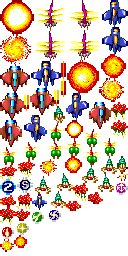
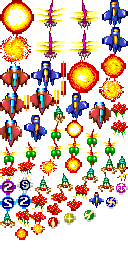
add eat bomb

Changed region(s): [[0.0, 0.6875, 0.9375, 1.0]]

diff --git a/tests3/main.cpp b/tests3/main.cpp
@@ -43,6 +43,10 @@ int GameLooper::Update() {
 			}
 		}
 
+		bombs.Foreach([&](auto& o)->bool {
+			return o->Update.Resume();
+		});
+
 		monsters_strawberry.Foreach([&](auto& o)->bool {
 			return o->Update.Resume();
 		});
@@ -69,10 +73,6 @@ int GameLooper::Update() {
 	xx::Quad texBrush;
 	texBrush.SetScale(gDisplayScale);
 
-	explosions_monster.Foreach([&](auto& o) {
-		o->Draw(texBrush);
-	});
-
 	monsters_hermit_crab.Foreach([&](auto& o) {
 		o->Draw(texBrush);
 	});
@@ -89,6 +89,13 @@ int GameLooper::Update() {
 		o->Draw(texBrush);
 	});
 
+	bombs.Foreach([&](auto& o) {
+		o->Draw(texBrush);
+	});
+
+	explosions_monster.Foreach([&](auto& o) {
+		o->Draw(texBrush);
+	});
 
 	for (auto& o : player_planes) {
 		if (o) {
@@ -104,7 +111,7 @@ int GameLooper::Update() {
 
 xx::Task<> GameLooper::MasterLogic() {
 	// sleep a while for OBS record
-	//co_await gEngine.TaskSleep(5);
+	co_await gEngine.TaskSleep(3);
 
 	// create player's plane
 	//for (size_t i = 0; i < 10000; i++)
@@ -113,30 +120,40 @@ xx::Task<> GameLooper::MasterLogic() {
 		//player_planes.emplace_back(xx::Make<Plane>())->Init(1);
 		co_yield 0;
 	}
+
+	while (nowSecs < 10) {
+		co_await gEngine.TaskSleep(1.f / 5);
+
+		monsters_hermit_crab.Emplace().Emplace()->Init();
+	}
 	
 	xx::MovePathCache dragonflyPath1, dragonflyPath2;
 	{
 		xx::MovePath mp;
 		xx::CurvePoints cps;
+		cps.points.emplace_back().pos = { g9Pos.x7 + 150, g9Pos.y7 + gMonsterDragonfly.diameter };
 		cps.points.emplace_back().pos = { g9Pos.x7 + 190, g9Pos.y7 - 10 };
 		cps.points.emplace_back().pos = { g9Pos.x7 + 30, g9Pos.y7 - 100 };
-		cps.points.emplace_back().pos = { g9Pos.x7 + 194, g9Pos.y7 - 174 };
+		cps.points.emplace_back().pos = { g9Pos.x7 + 190, g9Pos.y7 - 170 };
 		cps.points.emplace_back().pos = { g9Pos.x7 + 30, g9Pos.y7 - 250 };
+		cps.points.emplace_back().pos = { g9Pos.x7 + 60, g9Pos.y3 - gMonsterDragonfly.diameter };
 		mp.Clear();
 		mp.FillCurve(cps.isLoop, cps.points);
 		dragonflyPath1.Init(mp, 1);
 
 		cps.points.clear();
+		cps.points.emplace_back().pos = { g9Pos.x9 - 150, g9Pos.y9 + gMonsterDragonfly.diameter };
 		cps.points.emplace_back().pos = { g9Pos.x9 - 190, g9Pos.y9 - 10 };
 		cps.points.emplace_back().pos = { g9Pos.x9 - 30, g9Pos.y9 - 100 };
-		cps.points.emplace_back().pos = { g9Pos.x9 - 194, g9Pos.y9 - 174 };
+		cps.points.emplace_back().pos = { g9Pos.x9 - 190, g9Pos.y9 - 170 };
 		cps.points.emplace_back().pos = { g9Pos.x9 - 30, g9Pos.y9 - 250 };
+		cps.points.emplace_back().pos = { g9Pos.x9 - 60, g9Pos.y3 - gMonsterDragonfly.diameter };
 		mp.Clear();
 		mp.FillCurve(cps.isLoop, cps.points);
 		dragonflyPath2.Init(mp, 1);
 	}
 
-	while (nowSecs < 10) {
+	while (nowSecs < 20) {
 		co_await gEngine.TaskSleep(1.f / 10);
 
 		// todo: if (plane is left  use path 1  else use path 2)
@@ -171,9 +188,9 @@ void Plane::Init(int planeIndex_) {
 	visible = 0;
 
 	// bombs init
-	for (size_t i = 0; i < 15; i++) {
+	for (size_t i = 0; i < 3; i++) {
 		auto&& b = bombs.Emplace();
-		b.type = BombTypes(gRnd.Next(5));
+		b.type = BombTypes::Trident;
 	}
 
 	// script init
@@ -195,6 +212,20 @@ void Plane::InitBombPos() {
 xx::Task<> Plane::SyncBombPos() {
 	while (true) {
 		co_yield 0;
+
+		// eat bomb check
+		gLooper->bombs.Foreach([this](auto& o)->bool {
+			auto d = pos - o->pos;
+			auto constexpr rr = (gPlane.radius + gBomb.radius) * (gPlane.radius + gBomb.radius);
+			auto dd = d.x * d.x + d.y * d.y;
+			if (dd < rr) {
+				bombs.Push(PlaneBomb{ o->type, o->pos });
+				return true;
+			}
+			return false;
+		});
+
+		// move all tail bombs
 
 		auto n = bombs.Count();
 		if (!n) continue;
@@ -232,9 +263,9 @@ xx::Task<> Plane::SyncBulletPosCol() {
 
 			if (HitCheck<gMonsterStrawberry.radius, false>(b, gLooper->monsters_strawberry).has_value()) return true;
 			if (HitCheck<gMonsterDragonfly.radius, true>(b, gLooper->monsters_dragonfly).has_value()) return true;
-			if (HitCheck<gMonsterFly.radius, true>(b, gLooper->monsters_fly).has_value()) return true;
-			if (auto pos = HitCheck<gMonsterHermitCrab.radius, true>(b, gLooper->monsters_hermit_crab); pos.has_value()) {
-				// todo: gen bomb at pos
+			if (HitCheck<gMonsterFly.radius, false>(b, gLooper->monsters_fly).has_value()) return true;
+			if (auto pos = HitCheck<gMonsterHermitCrab.radius, false>(b, gLooper->monsters_hermit_crab); pos.has_value()) {
+				gLooper->bombs.Emplace().Emplace()->Init(pos.value(), BombTypes::MAX_VALUE_UNKNOWN);
 				return true;
 			}
 
@@ -395,6 +426,29 @@ void ExplosionMonster::Draw(xx::Quad& texBrush) {
 /*****************************************************************************************************/
 /*****************************************************************************************************/
 
+void Bomb::Init(xx::XY const& pos_, BombTypes type_) {
+	if (type_ == BombTypes::MAX_VALUE_UNKNOWN) {
+		type = (BombTypes)gRnd.Next((int)BombTypes::MAX_VALUE_UNKNOWN - 1);
+	}
+	else {
+		type = type_;
+	}
+	pos = pos_;
+}
+xx::Task<> Bomb::Update_() {
+	do {
+		pos.y -= gBomb.minSpeed;
+		co_yield 0;
+	} while (pos.y > -gDesign.height_2 - gBomb.diameter);
+}
+void Bomb::Draw(xx::Quad& texBrush) {
+	texBrush.SetFrame(gLooper->frames_bomb[(int)type]).SetPosition(pos * gDisplayScale).Draw();
+}
+
+
+/*****************************************************************************************************/
+/*****************************************************************************************************/
+
 void MonsterStrawberry::Init() {
 	if (gRnd.Next<bool>()) {
 		pos.x = -gMonsterStrawberry.radius - gDesign.width_2;
@@ -477,13 +531,15 @@ void MonsterDragonfly::Draw(xx::Quad& texBrush) {
 /*****************************************************************************************************/
 /*****************************************************************************************************/
 
-// todo
 void MonsterHermitCrab::Init() {
 	frameIndex = gRnd.Next((float)gMonsterHermitCrab.frameIndexMin, gMonsterHermitCrab.frameIndexMax + 0.999f);
+	pos.x = gRnd.Next(gMonsterHermitCrab.bornPosXFrom, gMonsterHermitCrab.bornPosXTo);
+	pos.y = gMonsterHermitCrab.bornPosY;
 }
 
 xx::Task<> MonsterHermitCrab::Update_() {
 	do {
+		pos.y -= gMonsterHermitCrab.speed;
 		frameIndex += gMonsterHermitCrab.frameSwitchDelay;
 		if ((int)frameIndex > gMonsterHermitCrab.frameIndexMax) {
 			frameIndex = gMonsterHermitCrab.frameIndexMin + (frameIndex - gMonsterHermitCrab.frameIndexMax - 1);

diff --git a/tests3/main.h b/tests3/main.h
@@ -10,6 +10,7 @@ struct MonsterDragonfly;
 struct MonsterHermitCrab;
 struct MonsterFly;
 struct ExplosionMonster;
+struct Bomb;
 
 struct GameLooper : xx::GameLooperBase {
 	// base res
@@ -39,6 +40,8 @@ struct GameLooper : xx::GameLooperBase {
 
 	// runtime objects
 	std::vector<xx::Shared<Plane>> player_planes;
+
+	xx::ListLink<xx::Shared<Bomb>, int> bombs;
 
 	xx::ListLink<xx::Shared<MonsterStrawberry>, int> monsters_strawberry;
 	xx::ListLink<xx::Shared<MonsterDragonfly>, int> monsters_dragonfly;
@@ -136,6 +139,7 @@ struct {
 	STCO float hight_2 = hight / 2;
 	STCO float spacing = 13.f;
 	STCO float spacing_2 = spacing / 2;
+	STCO float radius = spacing_2;
 	STCO float frameChangeStep = 1.f / 5 * gSpeedScale;
 	STCO float speed = 5.f * gSpeedScale;
 	STCO float fireYOffset = 14.f;
@@ -190,8 +194,9 @@ struct {
 	STCO float frameSwitchDelay = 1.f / 5 * gSpeedScale;
 } constexpr gMonsterDragonfly;
 
+
 struct {
-	STCO float radius = 5.f;
+	STCO float radius = 5.f;		// todo
 	STCO float diameter = radius * 2;
 	STCO float speed = 3.f * gSpeedScale;
 	STCO int frameIndexMin = 0;
@@ -200,17 +205,16 @@ struct {
 } constexpr gMonsterFly;
 
 struct {
-	STCO float radius = 5.f;
+	STCO float radius = 6.f;
 	STCO float diameter = radius * 2;
 	STCO float speed = 1.f * gSpeedScale;
+	STCO float bornPosY = g9Pos.y7 + diameter;
+	STCO float bornPosXFrom = g9Pos.x7 + 20;
+	STCO float bornPosXTo = g9Pos.x9 - 20;
 	STCO int frameIndexMin = 0;
 	STCO int frameIndexMax = 7;
 	STCO float frameSwitchDelay = 1.f / 4 * gSpeedScale;
 } constexpr gMonsterHermitCrab;
-
-
-/*****************************************************************************************************/
-/*****************************************************************************************************/
 
 enum class BombTypes : int {
 	Trident,	// bomb0
@@ -225,7 +229,10 @@ enum class BombTypes : int {
 	MAX_VALUE_UNKNOWN
 };
 
-struct Bomb {
+/*****************************************************************************************************/
+/*****************************************************************************************************/
+
+struct PlaneBomb {
 	BombTypes type = BombTypes::MAX_VALUE_UNKNOWN;
 	xx::XY pos{};
 };
@@ -247,7 +254,7 @@ struct Plane {
 	float frameIndex{};									// for move left/right switch frame
 	float frameChangeSpeed{};							// speed0 / 5
 
-	xx::Queue<Bomb> bombs;								// tail bomb icons
+	xx::Queue<PlaneBomb> bombs;							// tail bomb icons
 	float bombNextUseTime{};							// next avaliable use bomb time by engine.nowSecs + CD
 
 	xx::ListLink<PlaneBullet> bullets;					// bullets fired from the front of the plane
@@ -270,7 +277,7 @@ template<float radius, bool isBigExplosions, typename MT>
 std::optional<xx::XY> HitCheck(PlaneBullet& b, xx::ListLink<xx::Shared<MT>, int>& tar) {
 	auto [idx, next] = tar.FindIf([&](xx::Shared<MT>& o)->bool {
 		auto d = b.pos - o->pos;
-		auto constexpr rr = (gPlaneBullet.hight_2 + radius) * (gPlaneBullet.hight_2 + radius);
+		auto constexpr rr = (gPlaneBullet.radius + radius) * (gPlaneBullet.radius + radius);
 		auto dd = d.x * d.x + d.y * d.y;
 		if (dd < rr) {
 			gLooper->explosions_monster.Emplace().Emplace()->Init(o->pos, isBigExplosions);
@@ -298,6 +305,19 @@ struct ExplosionMonster {
 	xx::Task<> Update;
 	xx::Task<> Update_();
 	xx::Task<> UpdateBig_();
+};
+
+
+/*****************************************************************************************************/
+/*****************************************************************************************************/
+
+struct Bomb {
+	BombTypes type = BombTypes::MAX_VALUE_UNKNOWN;
+	xx::XY pos{};
+	void Init(xx::XY const& pos_, BombTypes type_);
+	void Draw(xx::Quad& texBrush);
+	xx::Task<> Update = Update_();
+	xx::Task<> Update_();
 };
 
 /*****************************************************************************************************/
